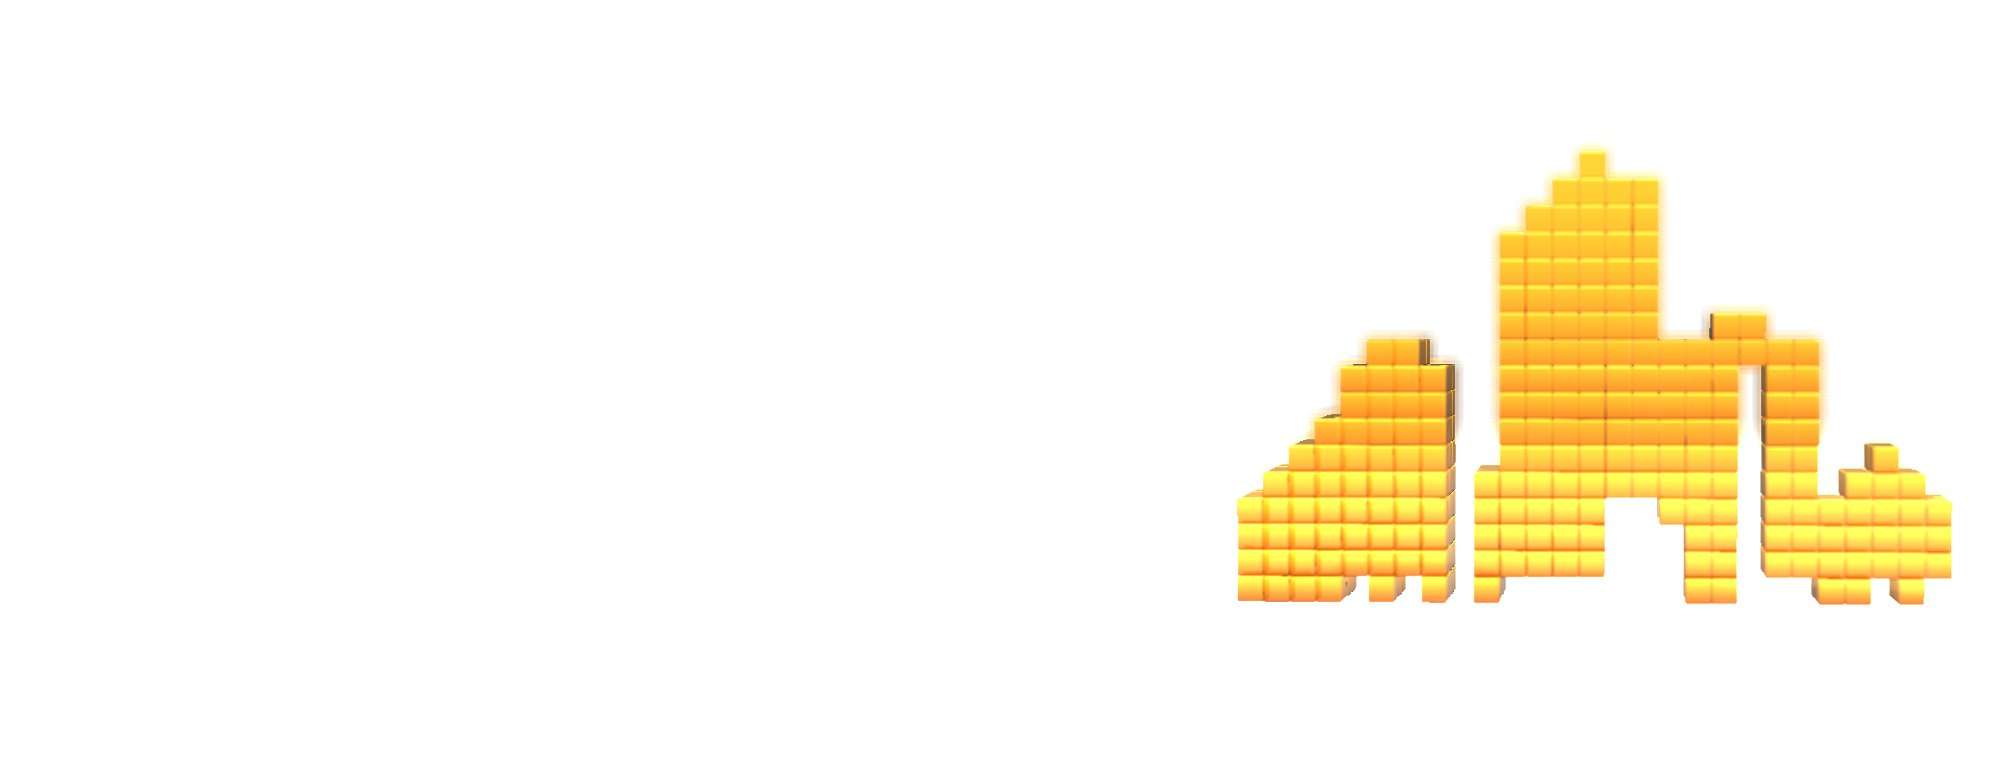
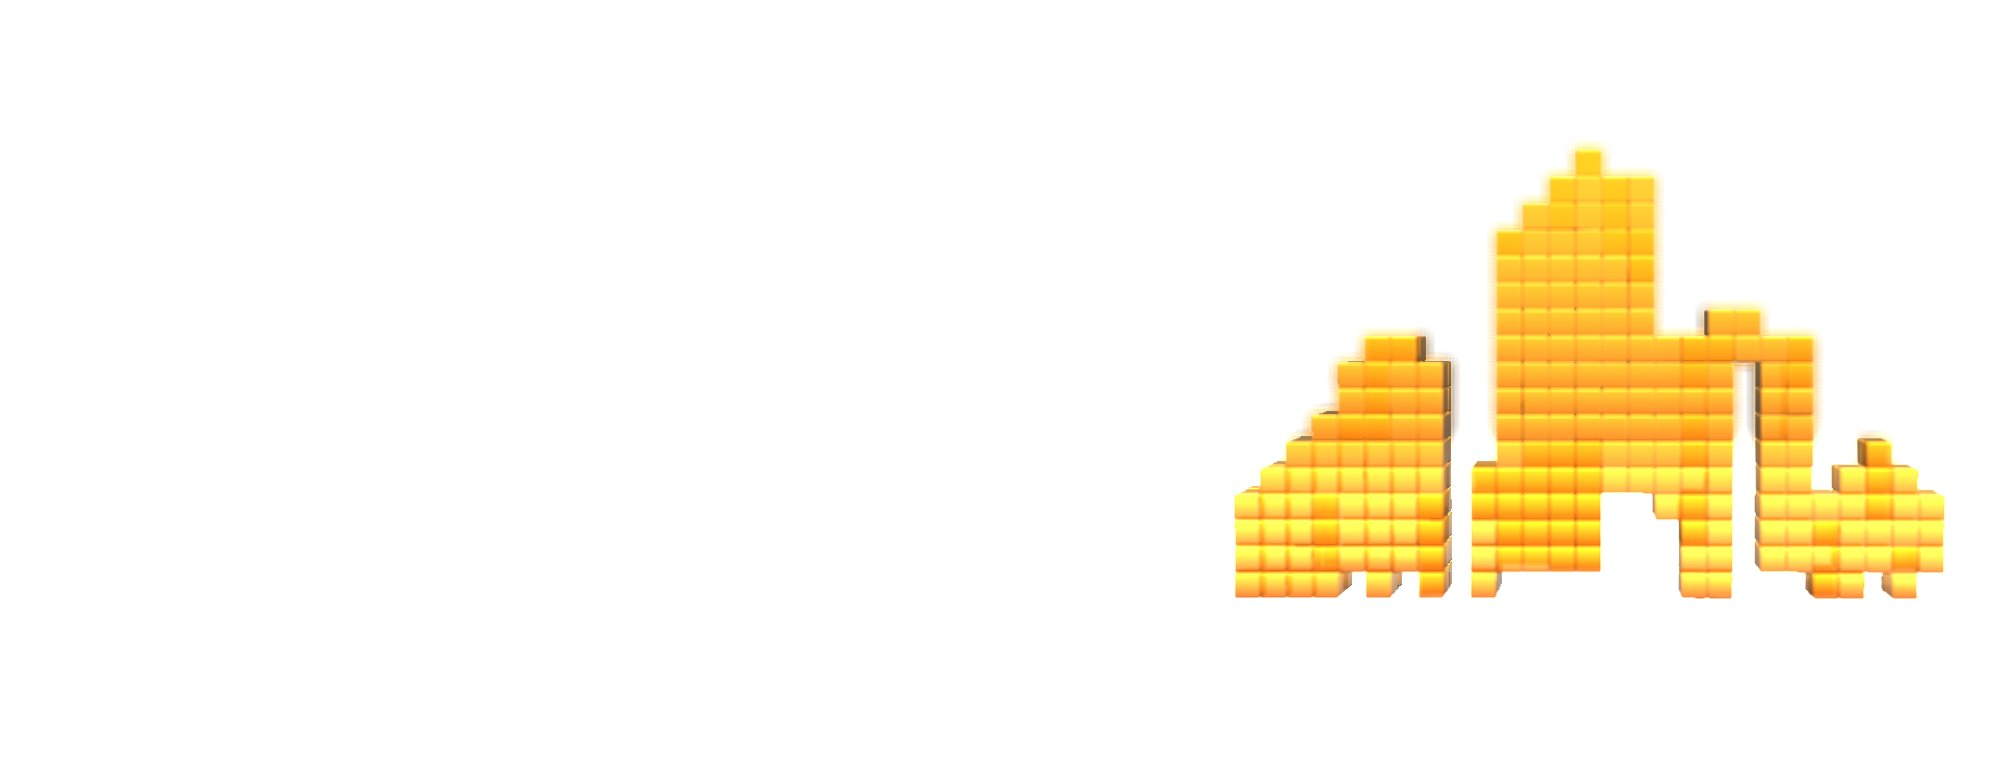
The ribbon curls, and a stream of tiles feeds into it
The ribbon was a closed loop of tiles: a banded bracelet with no curl and
nothing feeding it, which was the last structural difference from the
reference Tzvi sent.

It is an open strip now. 336 of the blocks tile it, eight lanes across
packed edge to edge so it reads as one surface with the colour bands
running along its length, on a path that rises from a low tail, sweeps up
and turns back on itself so the fold shows its underside. The other 176
are the stream: they travel a feed path from off frame into the tail,
fading in far out and fading out as they merge, so the ribbon looks fed
rather than merely present.

Two things had to be right for it to read as a ribbon at all. The curve
is sampled by ARC LENGTH, because getPoint spaces its samples unevenly
and the strip came out bunched in the bends and gapped on the straights,
reading as slats. And the frame is built from a fixed world up rather
than by Frenet, whose normal spins through the curl and tore the strip
into a fan; the tangent never comes near vertical here, so a fixed up is
stable, and a small roll along the length gives the twist Frenet was
overdoing.

The strip is positioned with its curl near the origin, which is the
centre of the clear area in both directions, and the tail runs off frame
behind it. The brightest bands came down: the yellow end was burning to
white through the middle of the strip.

Verified at 1280 LTR and RTL, 996 and 375, at the forming, the fed
[…]

Changed region(s): [[0.62, 0.1846, 0.992, 0.8]]

diff --git a/frontend/src/components/home/BlocksHero.jsx b/frontend/src/components/home/BlocksHero.jsx
@@ -73,7 +73,7 @@ const PALETTE = [
 const GOLD_LOW = new THREE.Color('#A8650F');
 const GOLD_HIGH = new THREE.Color('#F2C24A');
 // The ribbon's bands, across its width, echoing the reference's arc.
-const RIBBON_BANDS = ['#1F63E8', '#6D21C4', '#A02BC9', '#E2076B', '#EF4A1E', '#F07A10', '#F5B417', '#F2C24A'];
+const RIBBON_BANDS = ['#2C5FC4', '#5F2AA6', '#8C2FAE', '#C22668', '#D1502C', '#D3792C', '#D69E28', '#D9AE45'];
 
 // The mark: 28 columns across brand/logo-mark.png, each the tower's height
 // and its lift off the ground as fractions of the image height. Traced from
@@ -82,9 +82,14 @@ const RIBBON_BANDS = ['#1F63E8', '#6D21C4', '#A02BC9', '#E2076B', '#EF4A1E', '#F
 const MARK_HEIGHTS = [0, 0.225, 0.275, 0.325, 0.375, 0.45, 0.55, 0.525, 0.525, 0, 0.3, 0.725, 0.8, 0.85, 0.9, 0.675, 0.65, 0.375, 0.575, 0.625, 0.125, 0.525, 0.475, 0.2, 0.275, 0.25, 0.25, 0.15];
 const MARK_LIFT = [0, 0.025, 0.025, 0.025, 0.025, 0.05, 0.025, 0.05, 0.025, 0, 0.025, 0.05, 0.05, 0.05, 0.05, 0.225, 0.2, 0.175, 0.025, 0.025, 0.5, 0.05, 0.05, 0.025, 0.025, 0.05, 0.025, 0.05];
 
-const RIB_SAMPLES = 512;        // baked poses around the ribbon loop
-const RIB_LANES = 8;
-const RIB_FLOW = 0.06;          // loops per second while the ribbon holds
+const RIB_SAMPLES = 512;        // baked poses along the ribbon
+const RIB_LANES = 8;            // tiles across its width
+const RIB_RINGS = 42;           // tiles along its length
+const RIB_BODY = RIB_LANES * RIB_RINGS;   // 336 make the ribbon
+const RIB_FEED = N - RIB_BODY;            // 176 stream into its tail
+const FEED_SPEED = 0.14;        // trips along the feed path per second
+// Where the stream comes from, far enough out to be off frame.
+const FEED_FAR = [-26, -7, 17];
 
 // Deterministic randomness, so every visitor sees the same film.
 function mulberry32(seed) {
@@ -194,37 +199,85 @@ function buildKeyframes() {
     setC(mosaic, i, colA[i], colB[i]);
   }
 
-  // K5 ribbon: a closed, tilted loop the tiles flow around, with tiles
-  // wide enough to touch so it reads as one banded ribbon rather than a
-  // string of chips. Colour runs across its width, as the reference's does.
+  // K5 ribbon: an OPEN strip that rises from a low tail, sweeps up and
+  // curls over on itself, with a stream of small tiles flowing along the
+  // tail and merging into it. The closed loop this replaced read as a
+  // banded bracelet: no curl, and nothing feeding it, which was the last
+  // structural difference from the reference.
+  //
+  // 336 of the blocks tile the strip, packed edge to edge across eight
+  // lanes so it reads as one surface with bands running along its length.
+  // The remaining 176 are the stream: they travel the feed path, fading
+  // in far out and fading out as they reach the tail, so the ribbon looks
+  // fed rather than merely present.
   const ribbonU = new Float32Array(N), ribbonLane = new Float32Array(N);
-  const loopPts = [];
-  for (let k = 0; k < 12; k++) {
-    const a = (k / 12) * Math.PI * 2;
-    loopPts.push(new THREE.Vector3(Math.cos(a) * 11, 5.5 + Math.sin(a) * 3.4 + Math.sin(a * 2) * 1.3, Math.sin(a) * 5.5 - 0.5));
-  }
-  const loopCurve = new THREE.CatmullRomCurve3(loopPts, true, 'catmullrom', 0.5);
-  const frames = loopCurve.computeFrenetFrames(RIB_SAMPLES, true);
-  const ribPos = new Float32Array(RIB_SAMPLES * 3), ribQuat = new Float32Array(RIB_SAMPLES * 4), ribBin = new Float32Array(RIB_SAMPLES * 3);
+  const feedScatter = new Float32Array(N * 3);
+  const ribPts = [
+    new THREE.Vector3(-17.5, -1.5, 10),
+    new THREE.Vector3(-13, 0.5, 7),
+    new THREE.Vector3(-9, 2.6, 4),
+    new THREE.Vector3(-5.5, 4.6, 1.2),
+    new THREE.Vector3(-2.7, 6.4, -0.6),
+    new THREE.Vector3(-0.3, 7.8, 0.2),
+    // The curl: the strip turns back on itself and shows its underside.
+    new THREE.Vector3(0.7, 7.9, 2.6),
+    new THREE.Vector3(-0.5, 6.6, 4.6),
+    new THREE.Vector3(-2.6, 5.9, 4.8),
+  ];
+  const ribCurve = new THREE.CatmullRomCurve3(ribPts, false, 'catmullrom', 0.5);
+  // Sampled by ARC LENGTH, not by the curve parameter. getPoint spaces
+  // its samples unevenly, which left the strip bunched in the bends and
+  // gapped on the straights: it read as slats, not as a ribbon.
+  //
+  // The frame is built from a fixed world up rather than by Frenet, whose
+  // normal spins through the curl and tore the strip into a fan. The
+  // tangent here never comes near vertical, so a fixed up is stable, and
+  // a small roll along the length gives the twist Frenet was overdoing.
+  const ribPos = new Float32Array(RIB_SAMPLES * 3), ribQuat = new Float32Array(RIB_SAMPLES * 4);
+  const ribBin = new Float32Array(RIB_SAMPLES * 3), ribNrm = new Float32Array(RIB_SAMPLES * 3);
   const m = new THREE.Matrix4();
+  const up = new THREE.Vector3(0, 1, 0);
+  const tan = new THREE.Vector3(), bin = new THREE.Vector3(), nrm = new THREE.Vector3();
+  const rollQ = new THREE.Quaternion();
   for (let k = 0; k < RIB_SAMPLES; k++) {
-    const p = loopCurve.getPoint(k / RIB_SAMPLES);
-    ribPos[k * 3] = p.x; ribPos[k * 3 + 1] = p.y; ribPos[k * 3 + 2] = p.z;
-    const bin = frames.binormals[k];
+    const u = k / (RIB_SAMPLES - 1);
+    const pt = ribCurve.getPointAt(u);
+    ribPos[k * 3] = pt.x; ribPos[k * 3 + 1] = pt.y; ribPos[k * 3 + 2] = pt.z;
+    ribCurve.getTangentAt(u, tan).normalize();
+    bin.crossVectors(tan, up).normalize();
+    nrm.crossVectors(bin, tan).normalize();
+    rollQ.setFromAxisAngle(tan, u * 0.6);
+    bin.applyQuaternion(rollQ); nrm.applyQuaternion(rollQ);
     ribBin[k * 3] = bin.x; ribBin[k * 3 + 1] = bin.y; ribBin[k * 3 + 2] = bin.z;
-    m.makeBasis(frames.tangents[k], frames.normals[k], bin); q.setFromRotationMatrix(m);
+    ribNrm[k * 3] = nrm.x; ribNrm[k * 3 + 1] = nrm.y; ribNrm[k * 3 + 2] = nrm.z;
+    m.makeBasis(tan, nrm, bin); q.setFromRotationMatrix(m);
     ribQuat[k * 4] = q.x; ribQuat[k * 4 + 1] = q.y; ribQuat[k * 4 + 2] = q.z; ribQuat[k * 4 + 3] = q.w;
   }
-  const perLane = N / RIB_LANES;
+  // Tiles overlap slightly along both axes, or the strip reads as a grid
+  // of chips with gaps rather than as a ribbon.
+  const laneW = 1.3;
+  const tileLen = (ribCurve.getLength() / (RIB_RINGS - 1)) * 1.18;
   const ribbon = make();
   const bandCols = RIBBON_BANDS.map((h) => new THREE.Color(h));
   for (let i = 0; i < N; i++) {
-    const lane = i % RIB_LANES, k = Math.floor(i / RIB_LANES);
-    ribbonU[i] = k / perLane; ribbonLane[i] = (lane - (RIB_LANES - 1) / 2) * 1.25;
-    setS(ribbon, i, 1.5, 0.13, 1.35);
-    setC(ribbon, i, bandCols[lane], bandCols[Math.min(RIB_LANES - 1, lane + 1)]);
-    // Position and rotation come from the loop at run time; the arrays
-    // hold the u = 0 pose so a debugger reading them sees something sane.
+    if (i < RIB_BODY) {
+      const lane = i % RIB_LANES, ring = Math.floor(i / RIB_LANES);
+      ribbonU[i] = ring / (RIB_RINGS - 1);
+      ribbonLane[i] = (lane - (RIB_LANES - 1) / 2) * laneW;
+      setS(ribbon, i, tileLen, 0.12, laneW * 1.08);
+      setC(ribbon, i, bandCols[lane], bandCols[Math.min(RIB_LANES - 1, lane + 1)]);
+    } else {
+      // A stream chip: its own colour, its own phase, scattered around
+      // the feed path and converging as it arrives.
+      ribbonU[i] = rnd();
+      ribbonLane[i] = 0;
+      const sc = 0.34 + rnd() * 0.4;
+      setS(ribbon, i, sc * 1.5, 0.11, sc);
+      setC(ribbon, i, colA[i], colB[i]);
+      feedScatter[i * 3] = (rnd() - 0.5) * 7;
+      feedScatter[i * 3 + 1] = (rnd() - 0.5) * 5;
+      feedScatter[i * 3 + 2] = (rnd() - 0.5) * 7;
+    }
     setP(ribbon, i, ribPos[0], ribPos[1], ribPos[2]);
     setQ(ribbon, i, q.set(ribQuat[0], ribQuat[1], ribQuat[2], ribQuat[3]));
   }
@@ -281,7 +334,7 @@ function buildKeyframes() {
     spinTurns[i] = 0.5 + rnd() * 1.5;
   }
 
-  return { sky, pile, cube, cloud, mosaic, ribbon, mark, rank, drift, spinAxis, spinTurns, ribbonU, ribbonLane, ribPos, ribQuat, ribBin };
+  return { sky, pile, cube, cloud, mosaic, ribbon, mark, rank, drift, spinAxis, spinTurns, ribbonU, ribbonLane, feedScatter, ribPos, ribQuat, ribBin, ribNrm };
 }
 
 /**
@@ -320,8 +373,8 @@ const CAMERA = [
   { t: 8.2, pos: [-7, 7, 12], look: [0, 5, 0] },
   { t: 9.6, pos: [-8, 7, 12], look: [0, 5.5, 0] },
   { t: 12.4, pos: [-2.5, 6, 13], look: [0, 5.5, 0] },
-  { t: 14.4, pos: [7, 4, 12], look: [-1, 4, 0] },
-  { t: 16.8, pos: [4, 9.5, 21], look: [0, 5.5, 0] },
+  { t: 14.4, pos: [6, 5.5, 14], look: [-3, 4.5, 3] },
+  { t: 16.8, pos: [9, 12, 19], look: [-1, 6.5, 2.5] },
   { t: 19.4, pos: [0, 5, 21], look: [0, 4, 0] },
   { t: 22.4, pos: [3, 5.5, 22], look: [0, 4, 0] },
   { t: LOOP, pos: [7, 9, 15], look: [0, 8, 0] },
@@ -472,13 +525,38 @@ export default function BlocksHero({ className = 'hv2-blocks' }) {
       outC.setRGB(key.color[i * 3], key.color[i * 3 + 1], key.color[i * 3 + 2]);
       outC2.setRGB(key.color2[i * 3], key.color2[i * 3 + 1], key.color2[i * 3 + 2]);
       if (k === 'ribbon') {
-        // Sampled from the loop: the tile's own place plus the flow so far.
-        let u = K.ribbonU[i] + (t - 14.4) * RIB_FLOW;
-        u -= Math.floor(u);
-        const idx = Math.min(RIB_SAMPLES - 1, Math.floor(u * RIB_SAMPLES));
-        const off = K.ribbonLane[i];
-        outP.set(K.ribPos[idx * 3] + K.ribBin[idx * 3] * off, K.ribPos[idx * 3 + 1] + K.ribBin[idx * 3 + 1] * off, K.ribPos[idx * 3 + 2] + K.ribBin[idx * 3 + 2] * off);
-        outQ.set(K.ribQuat[idx * 4], K.ribQuat[idx * 4 + 1], K.ribQuat[idx * 4 + 2], K.ribQuat[idx * 4 + 3]);
+        if (i < RIB_BODY) {
+          // A tile of the strip: its fixed place along the curve and
+          // across the width, with a slow swell travelling down the
+          // ribbon so the surface is never dead still.
+          const u = K.ribbonU[i];
+          const idx = Math.min(RIB_SAMPLES - 1, Math.round(u * (RIB_SAMPLES - 1)));
+          const off = K.ribbonLane[i];
+          const swell = Math.sin(t * 1.6 - u * 7) * 0.11;
+          outP.set(
+            K.ribPos[idx * 3] + K.ribBin[idx * 3] * off + K.ribNrm[idx * 3] * swell,
+            K.ribPos[idx * 3 + 1] + K.ribBin[idx * 3 + 1] * off + K.ribNrm[idx * 3 + 1] * swell,
+            K.ribPos[idx * 3 + 2] + K.ribBin[idx * 3 + 2] * off + K.ribNrm[idx * 3 + 2] * swell,
+          );
+          outQ.set(K.ribQuat[idx * 4], K.ribQuat[idx * 4 + 1], K.ribQuat[idx * 4 + 2], K.ribQuat[idx * 4 + 3]);
+          return;
+        }
+        // A stream chip travelling the feed path into the ribbon's tail.
+        // It fades in far out and fades out as it merges, so the wrap
+        // back to the start is never seen.
+        let ph = K.ribbonU[i] + (t - 14.4) * FEED_SPEED;
+        ph -= Math.floor(ph);
+        const e = ph * ph * (3 - 2 * ph);
+        const spread = (1 - ph) * (1 - ph);
+        outP.set(
+          FEED_FAR[0] + (K.ribPos[0] - FEED_FAR[0]) * e + K.feedScatter[i * 3] * spread,
+          FEED_FAR[1] + (K.ribPos[1] - FEED_FAR[1]) * e + K.feedScatter[i * 3 + 1] * spread,
+          FEED_FAR[2] + (K.ribPos[2] - FEED_FAR[2]) * e + K.feedScatter[i * 3 + 2] * spread,
+        );
+        const fade = clamp01(ph / 0.12) * clamp01((1 - ph) / 0.12);
+        outS.multiplyScalar(fade);
+        rotQ.setFromAxisAngle(yAxis, t * 0.9 + i);
+        outQ.set(K.ribQuat[0], K.ribQuat[1], K.ribQuat[2], K.ribQuat[3]).premultiply(rotQ);
         return;
       }
       outP.set(key.pos[i * 3], key.pos[i * 3 + 1], key.pos[i * 3 + 2]);
